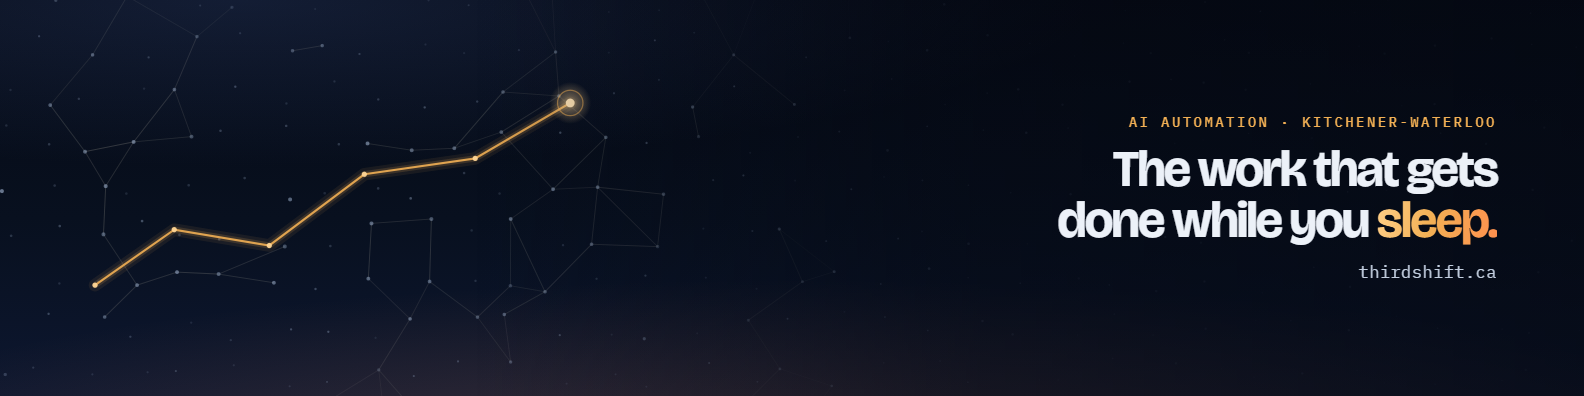
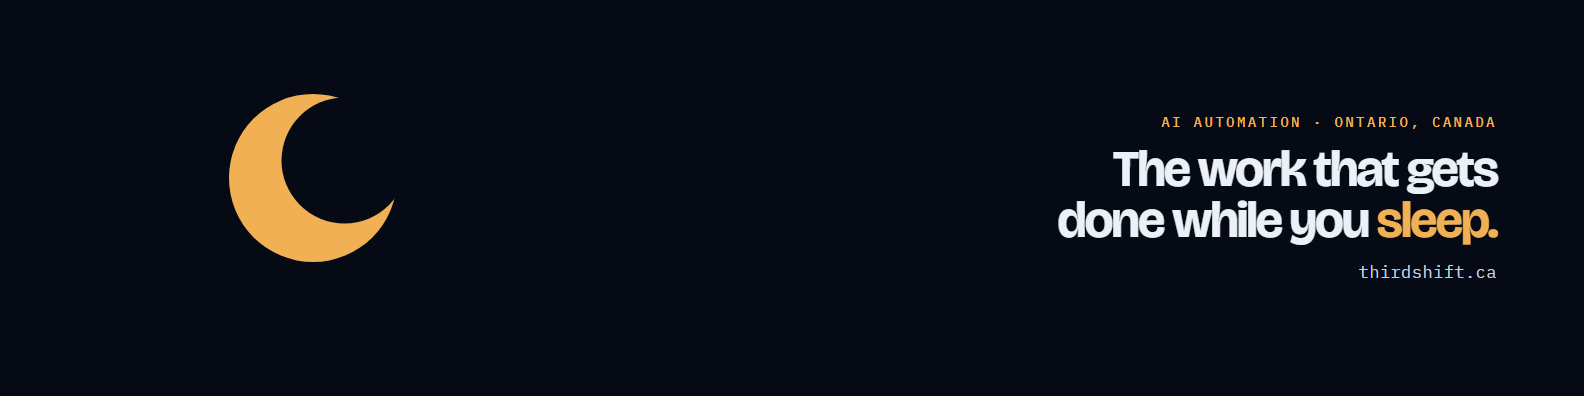
Flat, crisp profile art: black crescent on white, covers say Ontario, Canada
The profile picture is now a flat black crescent on white (1080 and 400 px), and the covers, header and first post are a solid night background with the amber crescent in place of the star network, so nothing turns blotchy when X or Facebook shrinks and recompresses them. Their kicker reads 'AI automation · Ontario, Canada'. render-brand.mjs takes a filter argument to re-export only some files.

diff --git a/tools/brand/art.html b/tools/brand/art.html
@@ -7,12 +7,16 @@
 <!--
   Every logo, icon, banner and share image is drawn by this one page, then exported by
   tools/render-brand.mjs. ?kind= picks the layout:
-    mark       the crescent alone (bg=night for app icons and profile pictures, bg=none for transparent)
+    flat       the crescent alone on one solid colour (fg=000000&bg=FFFFFF): the profile picture.
+               No stars, glow or gradients, so it stays crisp when a platform shrinks it to a small JPEG.
+    mark       the crescent alone (bg=night for app icons, bg=none for transparent)
     wordmark   crescent + "Third Shift" (theme=dark for dark backgrounds, theme=light for light ones)
     banner     wide social cover: network on the left, headline on the right
     square     1:1 post: mark, wordmark and the line
     og         1200x630 link preview
-  The night network is the same idea as site/assets/night.js, drawn once and still.
+  The night network is the same idea as site/assets/night.js, drawn once and still. banner and square
+  take flat=1 for the profile versions: a solid night background with a crescent in place of the
+  network, which is what keeps them sharp after X and Facebook recompress them.
 -->
 <link rel="preconnect" href="https://fonts.googleapis.com">
 <link rel="preconnect" href="https://fonts.gstatic.com" crossorigin>
@@ -60,6 +64,10 @@ canvas { position: absolute; inset: 0; width: 100%; height: 100%; }
 
 .square .text { position: absolute; inset: 0; display: grid; place-content: center; justify-items: center; text-align: center; }
 .square .shade { position: absolute; inset: 0; background: radial-gradient(closest-side, rgba(5, 9, 19, .82), rgba(5, 9, 19, .35) 70%, transparent); }
+
+.flat { background: #060A14; }
+.flat .head em { background: none; color: var(--amber); }
+.flat .moon.side { position: absolute; }
 
 .og .text { position: absolute; left: 7%; top: 50%; translate: 0 -50%; display: grid; justify-items: start; }
 .og .shade { position: absolute; inset: 0; background: linear-gradient(90deg, rgba(5, 9, 19, .82) 25%, rgba(5, 9, 19, .35) 58%, transparent 80%); }
@@ -203,6 +211,25 @@ function buildMark() {
   stage.append(wrap);
 }
 
+function buildFlat() {
+  const fg = "#" + (q.get("fg") || "000000"), bg = "#" + (q.get("bg") || "FFFFFF");
+  const size = Math.round(Math.min(W, H) * +(q.get("scale") || .56));
+  stage.style.background = bg;
+  const wrap = el("div", "mark-wrap", moon(size, { color: fg }));
+  // the same optical centring as the mark: the crescent's weight sits left and low
+  wrap.style.transform = `translate(${(size * .03).toFixed(1)}px, ${(-size * .01).toFixed(1)}px)`;
+  stage.append(wrap);
+}
+
+// The crescent that stands in for the network on the flat banners and posts.
+function sideMoon(size, left, top) {
+  const m = moon(size);
+  m.classList.add("side");
+  m.style.left = left + "px";
+  m.style.top = top + "px";
+  return m;
+}
+
 function buildWordmark() {
   const light = q.get("theme") === "light";
   const w = el("div", "word" + (light ? " light" : ""), moon(null, { color: light ? "#E39A2E" : "#F2B055" }), "Third Shift");
@@ -211,16 +238,23 @@ function buildWordmark() {
 }
 
 function buildBanner() {
-  stage.className = "stage night banner";
+  const flat = q.get("flat") === "1";
+  stage.className = "stage banner " + (flat ? "flat" : "night");
   const u = H / 100;                         // 1% of height
   const tall = W / H < 4.2;
-  stage.append(drawNetwork({
-    sp: Math.max(16, H / (tall ? 8.5 : 5.2)), seed: 11,
-    strength: (x, y) => smooth((0.72 - x) / 0.5) * (0.35 + 0.65 * smooth(1 - Math.abs(y - .5) * 1.4)),
-    path: tall ? [[.06, .72], [.11, .58], [.17, .62], [.23, .44], [.3, .4], [.36, .26]] : [[.04, .7], [.09, .45], [.14, .55], [.2, .32], [.26, .38]],
-  }));
-  stage.append(el("div", "shade"));
-  const kick = el("div", "kicker", "AI automation · Kitchener-Waterloo");
+  if (flat) {
+    // Left of centre and above the middle, clear of where X and Facebook overlap the profile picture.
+    const ms = Math.round(H * (tall ? .46 : .6));
+    stage.append(sideMoon(ms, W * (tall ? .14 : .05), (H - ms) / 2 - H * (tall ? .05 : 0)));
+  } else {
+    stage.append(drawNetwork({
+      sp: Math.max(16, H / (tall ? 8.5 : 5.2)), seed: 11,
+      strength: (x, y) => smooth((0.72 - x) / 0.5) * (0.35 + 0.65 * smooth(1 - Math.abs(y - .5) * 1.4)),
+      path: tall ? [[.06, .72], [.11, .58], [.17, .62], [.23, .44], [.3, .4], [.36, .26]] : [[.04, .7], [.09, .45], [.14, .55], [.2, .32], [.26, .38]],
+    }));
+    stage.append(el("div", "shade"));
+  }
+  const kick = el("div", "kicker", "AI automation · Ontario, Canada");
   const head = el("h1", "head");
   head.append("The work that gets done while you ", el("em", null, "sleep."));
   const url = el("div", "url", "thirdshift.ca");
@@ -244,15 +278,18 @@ function buildBanner() {
 }
 
 function buildSquare() {
-  stage.className = "stage night square";
+  const flat = q.get("flat") === "1";
+  stage.className = "stage square " + (flat ? "flat" : "night");
   const u = W / 100;
-  stage.append(drawNetwork({
-    sp: W / 13, seed: 5,
-    strength: (x, y) => smooth((Math.hypot(x - .5, (y - .5) * 1.1) - .26) / .3),
-    path: [[.07, .95], [.14, .88], [.21, .92], [.28, .85], [.35, .89], [.42, .96]],
-  }));
-  stage.append(el("div", "shade"));
-  const m = moon(Math.round(u * 17), { glow: true });
+  if (!flat) {
+    stage.append(drawNetwork({
+      sp: W / 13, seed: 5,
+      strength: (x, y) => smooth((Math.hypot(x - .5, (y - .5) * 1.1) - .26) / .3),
+      path: [[.07, .95], [.14, .88], [.21, .92], [.28, .85], [.35, .89], [.42, .96]],
+    }));
+    stage.append(el("div", "shade"));
+  }
+  const m = moon(Math.round(u * 17), { glow: !flat });
   const lock = el("div", "lockup", "Third Shift");
   lock.style.fontSize = (u * 9.5) + "px";
   lock.style.margin = (u * 4) + "px 0 " + (u * 3) + "px";
@@ -262,7 +299,7 @@ function buildSquare() {
   line.style.fontWeight = "600";
   line.style.maxWidth = (u * 62) + "px";
   line.style.lineHeight = "1.08";
-  const kick = el("div", "kicker", "AI automation · Kitchener-Waterloo");
+  const kick = el("div", "kicker", "AI automation · Ontario, Canada");
   kick.style.fontSize = (u * 2.1) + "px";
   kick.style.marginTop = (u * 5) + "px";
   stage.append(el("div", "text", m, lock, line, kick));
@@ -295,7 +332,7 @@ function buildOg() {
   stage.append(log);
 }
 
-({ mark: buildMark, wordmark: buildWordmark, banner: buildBanner, square: buildSquare, og: buildOg })[kind]();
+({ flat: buildFlat, mark: buildMark, wordmark: buildWordmark, banner: buildBanner, square: buildSquare, og: buildOg })[kind]();
 
 // The exporter waits for this before it takes the picture.
 document.fonts.ready.then(() => requestAnimationFrame(() => { document.body.dataset.ready = "1"; }));

diff --git a/social-kit/README.md b/social-kit/README.md
@@ -4,7 +4,8 @@ Made by `node tools/render-brand.mjs` from `tools/brand/art.html`. Change the ar
 
 | File | Use it for | Size |
 |---|---|---|
-| `profile-picture.png` | Profile photo on LinkedIn (page and personal), Instagram, Facebook, X, Google Business Profile. Platforms crop it to a circle; the moon stays inside. | 1080 x 1080 |
+| `profile-picture.png` | Profile photo on LinkedIn (page and personal), Instagram, Facebook, X, Google Business Profile. A flat black crescent on white: no stars, glow or gradients, so it stays crisp when a platform shrinks it. Platforms crop it to a circle; the moon stays inside. | 1080 x 1080 |
+| `profile-picture-400.png` | The same, for uploads that want a small file | 400 x 400 |
 | `linkedin-cover-1584x396.png` | Background photo on a personal LinkedIn profile | 1584 x 396 |
 | `linkedin-page-cover-1128x191.png` | Cover image on the LinkedIn company page (exported at 2x for sharpness) | 2256 x 382 |
 | `facebook-cover-1640x624.png` | Facebook page cover. Text sits inside the area phones show. | 1640 x 624 |
@@ -14,6 +15,8 @@ Made by `node tools/render-brand.mjs` from `tools/brand/art.html`. Change the ar
 | `logo-for-light-backgrounds.png` | Logo with navy lettering, transparent background: proposals, invoices, Chamber and Communitech listings | 2135 x 476 |
 | `logo-mark.png` | The moon on its own, transparent | 1024 x 1024 |
 | `link-preview-1200x630.png` | The picture that shows when thirdshift.ca is shared in a post or message (already set on the site). Also good as a LinkedIn or Facebook post image. | 1200 x 630 |
+
+The covers, header and first post are flat too: a solid night background, the amber crescent and the line, with "AI automation · Ontario, Canada".
 
 Colours: night `#050913`, amber `#F2B055`, dawn `#FF8F4D`, light text `#ECF1F8`, navy text `#0B1222`.
 Type: Bricolage Grotesque (headings, logo), IBM Plex Mono (labels). Both free on Google Fonts.
